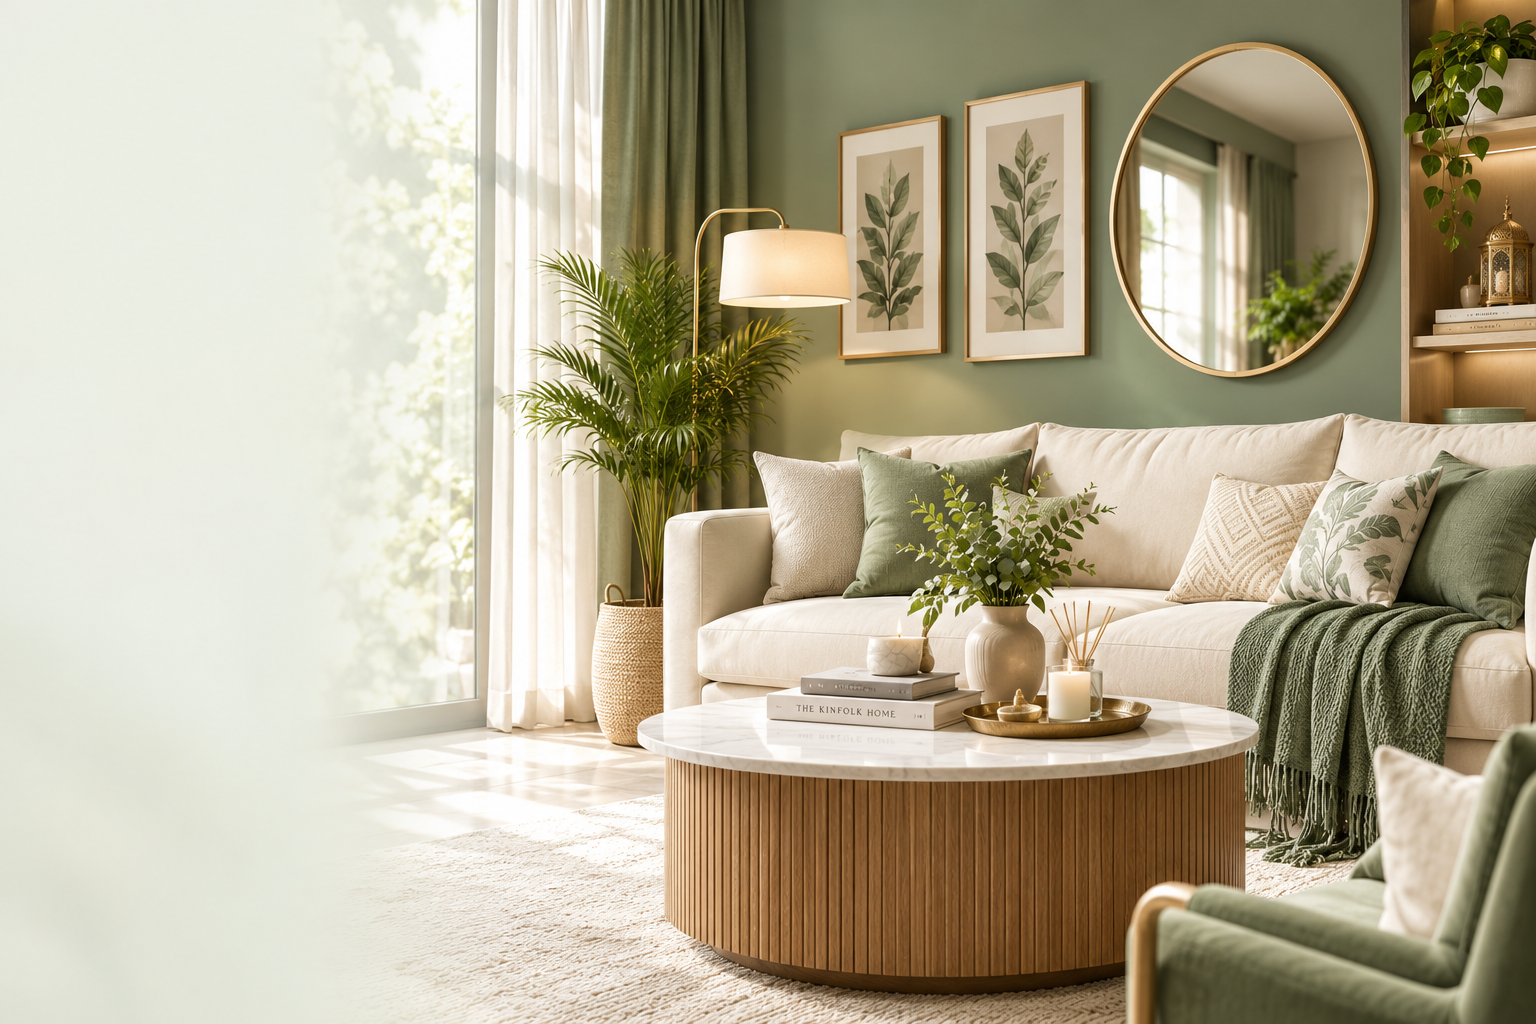
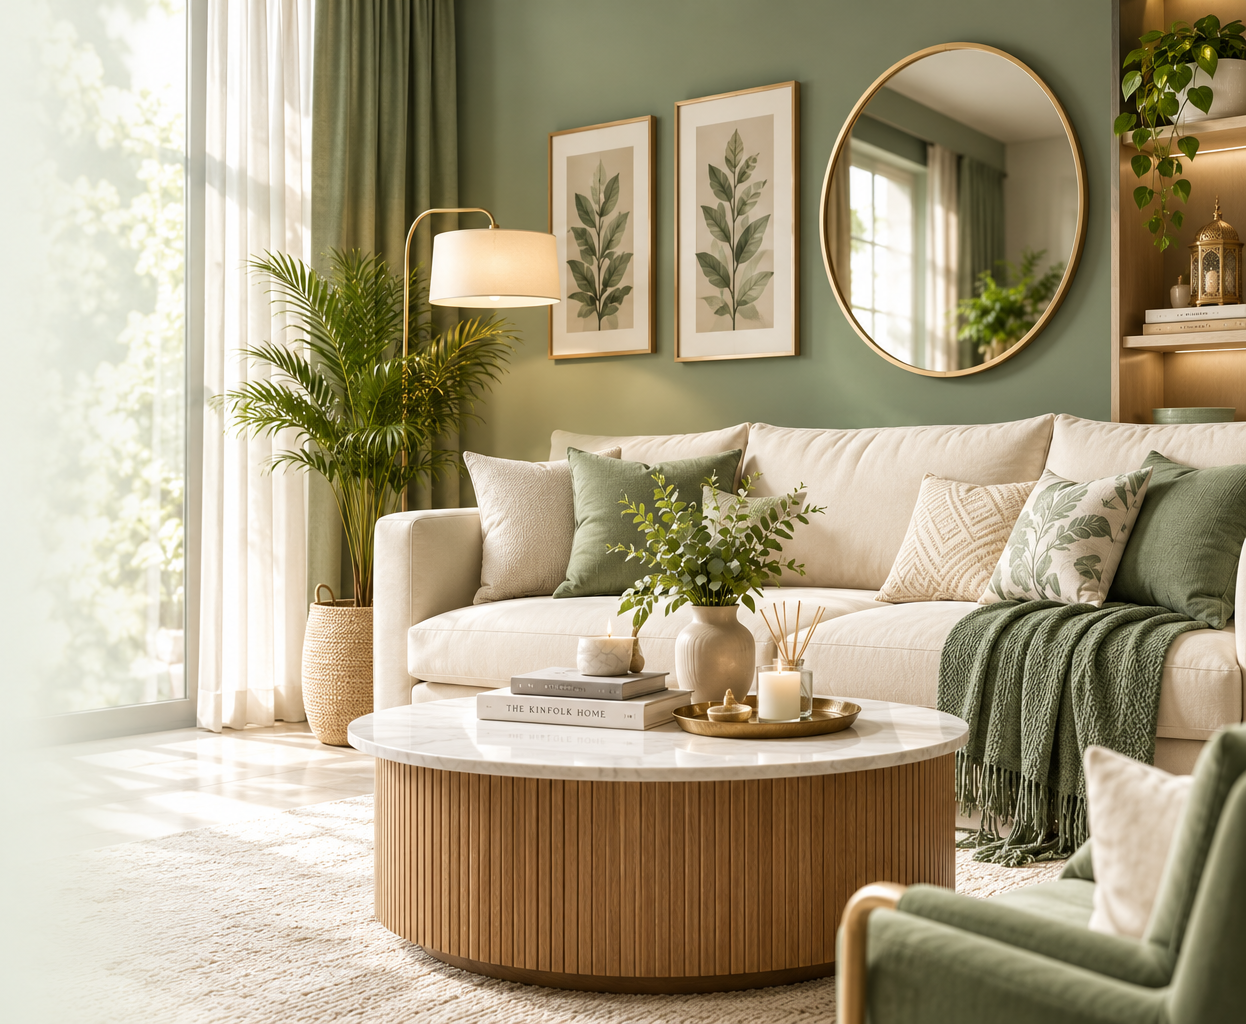
Hero: lighter picture and keep the right side in view

diff --git a/public/assets/css/style.css b/public/assets/css/style.css
@@ -5850,3 +5850,51 @@ a.sgh-tool-card:hover {
 
 /* The logo in the footer */
 .sgh-footer-logo-box img { height: var(--sgh-logo-footer); width: auto; }
+
+/* =====================================================
+   59. HERO PICTURE. To change what shows, edit only the numbers in :root below.
+   ===================================================== */
+:root {
+    /* Big screens (1400 pixels and wider) */
+    --sgh-hero-width: 62%;          /* how much of the hero the picture takes */
+    --sgh-hero-fade: 22%;           /* how much of its left edge fades into the background. 0% = no fade */
+
+    /* Laptops (992 to 1399 pixels): the text needs more room, so the fade is longer */
+    --sgh-hero-width-laptop: 58%;
+    --sgh-hero-fade-laptop: 30%;
+
+    /* Which part stays in view when the picture is trimmed: "50% 50%" = the middle,
+       "left center", "right center", or "50% 30%" (a little higher up) */
+    --sgh-hero-focus: 100% 50%;
+
+    /* Phones: the shape of the picture as width / height. Use your picture's own shape to show ALL of it,
+       for example 4 / 3 for a 1600 x 1200 picture. A bigger second number makes it taller. */
+    --sgh-hero-phone-ratio: 16 / 10;
+}
+
+.sgh-banner-photo img { object-position: var(--sgh-hero-focus); }
+
+@media (min-width: 992px) {
+    .sgh-banner-photo {
+        width: var(--sgh-hero-width);
+        -webkit-mask-image: linear-gradient(to right, transparent 0, #000 var(--sgh-hero-fade));
+        mask-image: linear-gradient(to right, transparent 0, #000 var(--sgh-hero-fade));
+    }
+}
+@media (min-width: 992px) and (max-width: 1399.98px) {
+    .sgh-banner-photo {
+        width: var(--sgh-hero-width-laptop);
+        -webkit-mask-image: linear-gradient(to right, transparent 0, #000 var(--sgh-hero-fade-laptop));
+        mask-image: linear-gradient(to right, transparent 0, #000 var(--sgh-hero-fade-laptop));
+    }
+}
+
+/* Phones and tablets: a taller picture, with a shorter fade at the top */
+@media (max-width: 991.98px) {
+    .sgh-banner-photo {
+        height: auto;
+        aspect-ratio: var(--sgh-hero-phone-ratio);
+        -webkit-mask-image: linear-gradient(to bottom, transparent 0, #000 10%);
+        mask-image: linear-gradient(to bottom, transparent 0, #000 10%);
+    }
+}
